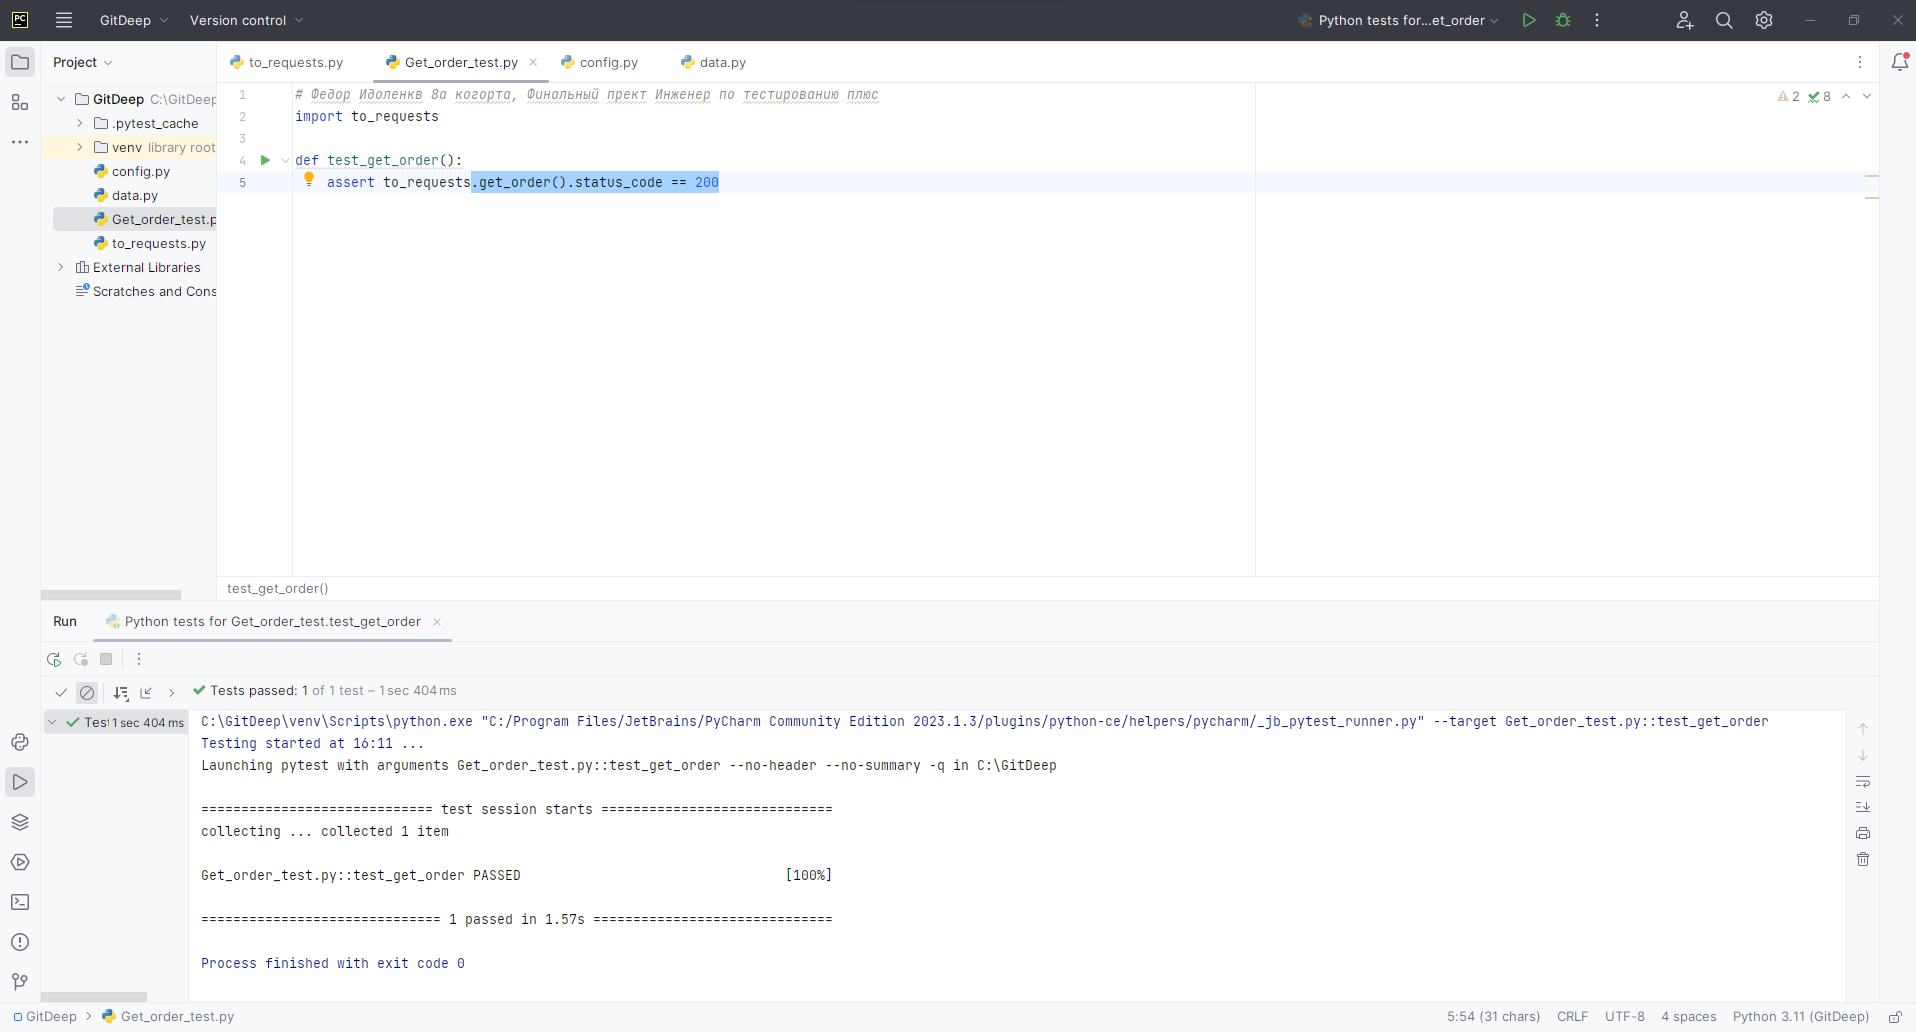
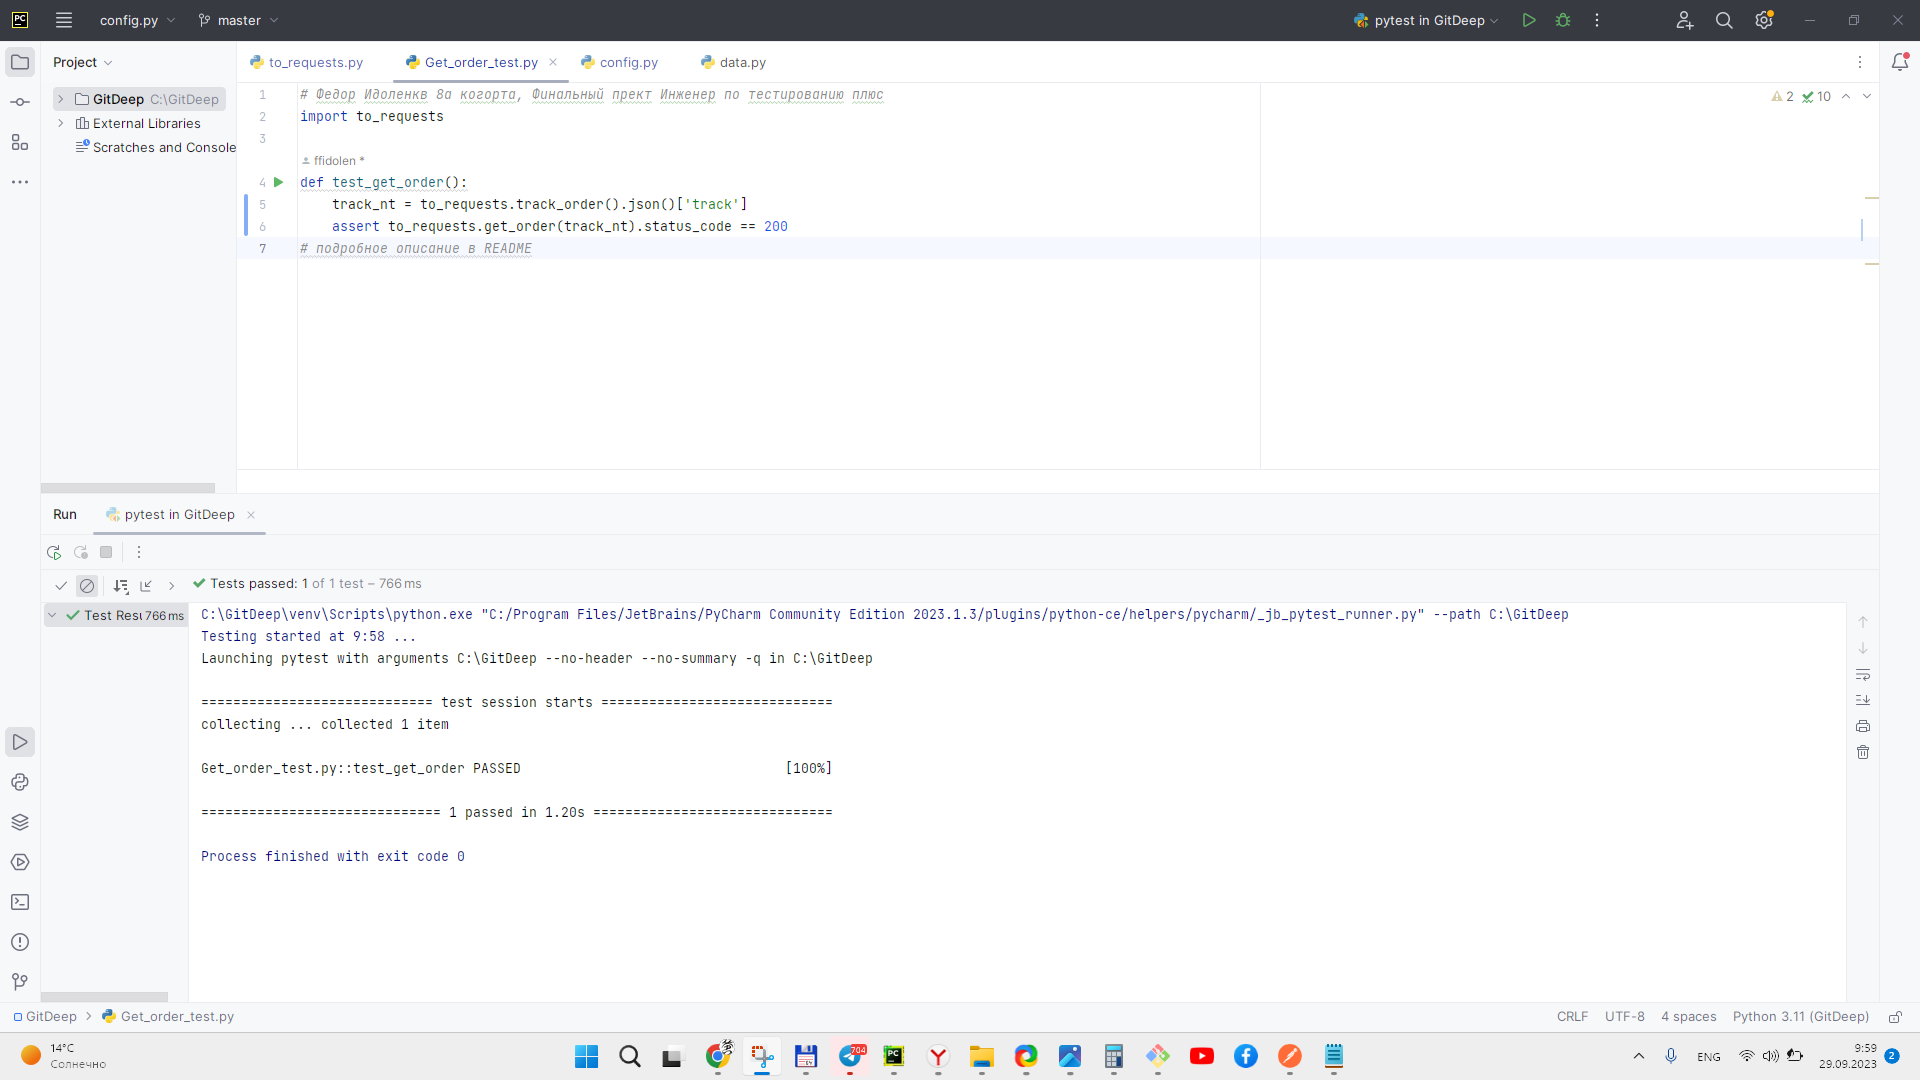
Pravki

diff --git a/to_requests.py b/to_requests.py
@@ -6,11 +6,11 @@ def track_order():
     j_data_order=data.JSON_ORDER.copy()
     order_create_response = requests.post(config.URL_SERVICE + config.ORDER_PATH,json=j_data_order, headers=data.headers)
     # print (order_create_response.status_code)
-    return (order_create_response.json()['track'])
+    return order_create_response
 
-def get_order():
-    track_n={'t':track_order()}
-    get_order_responce = requests.get(config.URL_SERVICE + config.ORDER_PATH, params = track_n, headers=data.headers)
+def get_order(track_num):
+    track_n={'t':track_num}
+    get_order_responce = requests.get(config.URL_SERVICE + config.GET_ORDER_PATH, params = track_n, headers=data.headers)
     # print(get_order_responce.status_code)
     # print(get_order_responce.json())
     return get_order_responce

diff --git a/Get_order_test.py b/Get_order_test.py
@@ -2,5 +2,6 @@
 import to_requests
 
 def test_get_order():
-    assert to_requests.get_order().status_code == 200
+    track_nt = to_requests.track_order().json()['track']
+    assert to_requests.get_order(track_nt).status_code == 200
 # подробное описание в README

diff --git a/config.py b/config.py
@@ -1,4 +1,5 @@
 
 
 ORDER_PATH = "/api/v1/orders"
-URL_SERVICE = "https://fae83937-988f-472d-8e02-6737bcc8a1dc.serverhub.praktikum-services.ru"
+GET_ORDER_PATH = "/api/v1/orders/track"
+URL_SERVICE = "https://838fd662-18b4-47cf-9635-a43886d68a98.serverhub.praktikum-services.ru"

diff --git a/README.md b/README.md
@@ -4,8 +4,11 @@
 - В файле config параметру URL_SERVICE необходимо присвоить ссылку на тестовый стенд
 - В файле data в параметре JSON_ORDER можно скорректировать параметры заказа
 # Файл to_requests содержит 2 функции:
-- track_order функция делает запрос на создание заказа и возвращает трек-номер в чистом виде. Это сделано для того, что бы при создании других тестов можно было получать просто номер и его использовать. Раскомментировав строку 8, можно посмотреть статус-код ответа сервера о создании заказа.
-- get_order функция делает запрос на получение заказа по его трек-номеру. Внутри функции Трек номер помещается в параметры запроса. Функция возвращает ответ сервера. Раскомментировав строку 14 можно посмотреть статус-код ответа сервера. Раскомментировав строку 15 можно посмотреть тело ответа (наш созданный заказ)
+- track_order функция делает запрос на создание заказа и возвращает ответ сервера. Раскомментировав строку 8, можно посмотреть статус-код ответа сервера о создании заказа. В функцию пеедается Трек номер, он помещается в параметры запроса. Функция возвращает ответ сервера. Раскомментировав строку 14 можно посмотреть статус-код ответа сервера. Раскомментировав строку 15 можно посмотреть тело ответа (наш созданный заказ)
+- get_order функция делает запрос на получение заказа по его трек-номеру и возвращает ответ сервера
+# Файл Get_order_test
+- в параметр track_nt можно присвоить известный трек номер заказа (сейчас в него помещается трек номер заказа созданного функцией treck_order)
+
 
 ✨Python is Magic✨
 
